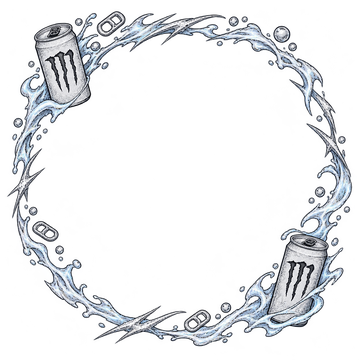
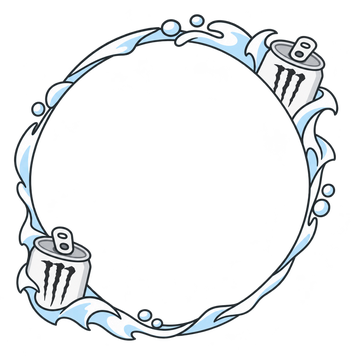
Match Ultra Frost frame to compact illustrated Original Splash style

Changed region(s): [[0.0306, 0.0306, 0.9778, 0.9778]]

diff --git a/holodos/src/site/index.html b/holodos/src/site/index.html
@@ -10,8 +10,8 @@
 <link rel="preconnect" href="https://fonts.gstatic.com" crossorigin>
 <link href="https://fonts.googleapis.com/css2?family=Manrope:wght@400;500;600;700;800&display=swap" rel="stylesheet">
 <link rel="preload" href="/assets/hero-main-2026.webp?v=20261114hq2" as="image" type="image/webp" fetchpriority="high">
-<link rel="stylesheet" href="/assets/site.css?v=20261114-frames53">
-<script src="/assets/site.js?v=20261114-frames53" defer></script>
+<link rel="stylesheet" href="/assets/site.css?v=20261115-frames55">
+<script src="/assets/site.js?v=20261115-frames55" defer></script>
 </head>
 <body>
 <div class="shell">
@@ -100,7 +100,7 @@
 <section class="view" id="view-cases" data-view="/cases">
  <div class="cases-topline"><div class="page-header cases-heading"><p class="eyebrow">КОЛЛЕКЦИЯ / WAR1OUSS</p><h1>Холод с характером<span class="period">.</span></h1><p>Твоя коллекция кейсов и наград.</p></div>
  <aside class="cases-balances" aria-label="Твои балансы"><div class="case-balance case-balance--twitch"><span class="case-balance-label"><svg viewBox="0 0 24 24" aria-hidden="true"><path fill="currentColor" d="M4 2 2 6v15h5v3l4-3h4l7-7V2H4zm16 11-4 4h-5l-3 3v-3H4V4h16v9zM14 7h2v6h-2V7zm-5 0h2v6H9V7z"/></svg>Баллы канала</span><strong id="case-channel-balance">—</strong><span class="case-balance-hint">Баланс Twitch пока не подключён</span></div><div class="case-balance"><span class="case-balance-label"><span class="balance-w" aria-hidden="true">W</span>Баллы сайта</span><strong id="case-site-balance" aria-live="polite">—</strong><span class="case-balance-hint" id="case-site-balance-hint">Войди через Twitch</span></div></aside></div><div class="cases-status"><span class="cases-status-dot"></span><span>Коллекция готовится к запуску. Открытия пока недоступны.</span></div>
- <div class="cases-collection"><article class="collection-case collection-case--donation"><div class="case-artwork"><img src="/assets/case-donation.webp?v=54" alt="Белый кейс с гранжем, выемкой в форме банки и эмблемой Monster" width="492" height="338" loading="lazy" decoding="async"><div class="case-hover-rewards" aria-hidden="true"><span class="case-hover-label">МОЖЕТ ВЫПАСТЬ</span><div><span>3000 W</span><span>5000 W</span><span>10000 W</span><span>15000 W</span><span class="reward-glow reward-glow--vp">240 VP</span><span class="reward-glow reward-glow--vp">475 VP</span><span class="reward-glow reward-glow--vp">1000 VP</span><span class="reward-glow reward-glow--popmart">Фигурка POP MART</span></div></div></div><div class="case-content"><p class="case-number case-category">За донат</p><div class="case-title-line"><h2>Донатный</h2></div><p class="case-description">Гарантированные 2 000 W дополнительно к случайной награде: W-монетам, коду VP или фигурке POP MART.</p><div class="case-cost">400 ₽</div><details class="case-rewards"><summary>Шансы <span aria-hidden="true">+</span></summary><div class="case-reward-list"><div><span>3000 W</span><strong>14,98%</strong></div><div><span>5000 W</span><strong>35%</strong></div><div><span>10000 W</span><strong>15%</strong></div><div><span>15000 W</span><strong>5%</strong></div><div><span class="reward-glow reward-glow--vp">240 VP</span><strong>25%</strong></div><div><span class="reward-glow reward-glow--vp">475 VP</span><strong>4%</strong></div><div><span class="reward-glow reward-glow--vp">1000 VP</span><strong>1%</strong></div><div><span class="reward-glow reward-glow--popmart">Фигурка POP MART</span><strong>0,02%</strong></div></div><p class="case-odds-note">Шанс каждого открытия независим. Редкая награда не гарантирована.</p></details><button class="case-open-button" type="button" disabled>Скоро открытие <span aria-hidden="true">↗</span></button></div></article><article class="collection-case collection-case--twitch"><div class="case-artwork"><img src="/assets/case-twitch.webp?v=43" alt="Баллы Twitch: металлический кейс War1ouss с инеем" width="492" height="338" loading="lazy" decoding="async"><div class="case-hover-rewards" aria-hidden="true"><span class="case-hover-label">МОЖЕТ ВЫПАСТЬ</span><div><span>500 W</span><span>1000 W</span><span>2000 W</span><span>5000 W</span><span class="reward-glow reward-glow--vp">240 VP</span></div></div></div><div class="case-content"><p class="case-number case-category">За баллы канала</p><div class="case-title-line"><h2>Баллы Twitch</h2></div><p class="case-description">Предварительный состав наград за 10 000 баллов канала. Открытия пока недоступны.</p><div class="case-cost">10 000 баллов</div><details class="case-rewards"><summary>Шансы <span aria-hidden="true">+</span></summary><div class="case-reward-list"><div><span>500 W</span><strong>35%</strong></div><div><span>1000 W</span><strong>30%</strong></div><div><span>2000 W</span><strong>20%</strong></div><div><span>5000 W</span><strong>14%</strong></div><div><span class="reward-glow reward-glow--vp">240 VP</span><strong>1%</strong></div></div><p class="case-odds-note">Предварительный просмотр. Открытия за баллы канала отключены.</p></details><button class="case-open-button" type="button" disabled>Скоро открытие <span aria-hidden="true">↗</span></button></div></article><article class="collection-case collection-case--chat"><div class="case-artwork"><img src="/assets/case-chat.webp?v=43" alt="За сообщения: металлический кейс War1ouss с инеем" width="492" height="338" loading="lazy" decoding="async"><div class="case-hover-rewards" aria-hidden="true"><span class="case-hover-label">МОЖЕТ ВЫПАСТЬ</span><div><span>100 W</span><span>250 W</span><span>1000 W</span><span>3000 W</span><span>8000 W</span><span class="reward-glow reward-glow--vp">240 VP</span><span class="reward-glow reward-glow--vip">VIP на месяц</span></div></div></div><div class="case-content"><p class="case-number case-category">За активность</p><div class="case-title-line"><h2>За сообщения</h2></div><p class="case-description">Общайся в чате. Прогресс копится между стримами. Если VIP уже активен, вместо VIP-награды — 3 000 W.</p><div class="case-cost">1 500 сообщений</div><details class="case-rewards"><summary>Шансы <span aria-hidden="true">+</span></summary><div class="case-reward-list"><div><span>100 W</span><strong>33,5%</strong></div><div><span>250 W</span><strong>35%</strong></div><div><span>1000 W</span><strong>20%</strong></div><div><span>3000 W</span><strong>7%</strong></div><div><span>8000 W</span><strong>2,5%</strong></div><div><span class="reward-glow reward-glow--vp">240 VP</span><strong>0,5%</strong></div><div><span class="reward-glow reward-glow--vip">VIP на месяц</span><strong>1,5%</strong></div></div><p class="case-odds-note">Шанс каждого открытия независим. Редкая награда не гарантирована.</p></details><button class="case-open-button" type="button" disabled>Скоро открытие <span aria-hidden="true">↗</span></button></div></article><article class="collection-case collection-case--vip"><div class="case-artwork"><img src="/assets/case-vip.webp?v=43" alt="VIP: металлический кейс War1ouss с инеем" width="492" height="338" loading="lazy" decoding="async"><div class="case-hover-rewards" aria-hidden="true"><span class="case-hover-label">МОЖЕТ ВЫПАСТЬ</span><div><span>500 W</span><span>2000 W</span><span>5000 W</span><span>10000 W</span><span class="reward-glow reward-glow--vp">240 VP</span></div></div></div><div class="case-content"><p class="case-number case-category">Раз в неделю</p><div class="case-title-line"><h2>VIP</h2></div><p class="case-description">Особый кейс для обладателей VIP-значка Twitch. Без пустого результата.</p><div class="case-cost">Для VIP-еров</div><details class="case-rewards"><summary>Шансы <span aria-hidden="true">+</span></summary><div class="case-reward-list"><div><span>500 W</span><strong>35%</strong></div><div><span>2000 W</span><strong>30%</strong></div><div><span>5000 W</span><strong>20%</strong></div><div><span>10000 W</span><strong>12%</strong></div><div><span class="reward-glow reward-glow--vp">240 VP</span><strong>3%</strong></div></div><p class="case-odds-note">Шанс каждого открытия независим. Редкая награда не гарантирована.</p></details><button class="case-open-button" type="button" disabled>Скоро открытие <span aria-hidden="true">↗</span></button></div></article><article class="collection-case collection-case--coins"><div class="case-artwork"><img src="/assets/case-coins.webp?v=43" alt="За W-монеты: металлический кейс War1ouss с инеем" width="492" height="338" loading="lazy" decoding="async"><div class="case-hover-rewards" aria-hidden="true"><span class="case-hover-label">НАГРАДЫ</span><p>Содержимое скоро появится</p></div></div><div class="case-content"><p class="case-number case-category">Скоро</p><div class="case-title-line"><h2>За W-монеты</h2></div><p class="case-description">Новый способ использовать заработанные W. Стоимость и награды ещё настраиваются.</p><div class="case-cost">За W-монеты</div><div class="case-pending">Содержимое скоро появится</div><button class="case-open-button" type="button" disabled>Скоро открытие <span aria-hidden="true">↗</span></button></div></article><article class="collection-case collection-case--subscriber"><div class="case-artwork"><img src="/assets/case-subscriber.webp?v=44" alt="Косметический кейс за подписку" width="492" height="338" loading="lazy"><div class="case-hover-rewards" aria-hidden="true"><span class="case-hover-label">КОСМЕТИКА</span><div><span class="cosmetic-frame">Эффекты рамки</span><span class="cosmetic-title">Титулы</span><span class="cosmetic-name">Оформление ника</span><span class="cosmetic-chess">Скин шахмат · в разработке</span><span class="cosmetic-can">Банка для дуэлей</span><span class="cosmetic-theme">Цвет сайта</span></div></div></div><div class="case-content"><p class="case-category">За подписку Twitch</p><h2>За подписку</h2><p class="case-description">Каждый месяц подписки: уровень 1 даёт 1 кейс, уровень 2 даёт 2, уровень 3 даёт 3.</p><div class="case-cost">1 / 2 / 3 кейса в месяц</div><details class="case-rewards"><summary>Шансы <span aria-hidden="true">+</span></summary><div class="case-reward-list"><div><span class="cosmetic-frame">Эффекты рамки</span><strong>40%</strong></div><div><span class="cosmetic-title">Титулы</span><strong>25%</strong></div><div><span class="cosmetic-name">Оформление ника</span><strong>24%</strong></div><div><span class="cosmetic-can">Банка для дуэлей</span><strong>10%</strong></div><div><span class="cosmetic-theme">Цвет сайта</span><strong>1%</strong></div></div><p class="case-odds-note">Пять банок равновероятны внутри награды, по 2% каждая. Скин шахмат в разработке и пока не выпадает. Шанс каждого открытия независим.</p></details><button class="case-open-button" disabled>Проверка подписок подключается</button></div></article></div><section class="panel monster-frame-gallery"><div class="panel-header"><h2>Рамки Monster</h2><span class="muted">Примеры косметики</span></div><p class="muted">Банки, язычки и брызги вокруг твоего аватара. Три рисованных варианта с мягким переливом.</p><div class="monster-frame-grid"><article class="frame-preview-card"><div class="frame-preview"><span class="frame-preview-center">W</span><picture><source media="(prefers-reduced-motion: reduce)" srcset="/assets/frame-ultra.png?v=53"><img src="/assets/frame-ultra.gif?v=53" alt="Рамка Ultra Frost с банками Monster и брызгами" width="160" height="160" loading="lazy" draggable="false"></picture></div><h3>Ultra Frost</h3></article><article class="frame-preview-card"><div class="frame-preview"><span class="frame-preview-center">W</span><picture><source media="(prefers-reduced-motion: reduce)" srcset="/assets/frame-original.png?v=53"><img src="/assets/frame-original.gif?v=53" alt="Рамка Original Splash с банками Monster и брызгами" width="160" height="160" loading="lazy" draggable="false"></picture></div><h3>Original Splash</h3></article><article class="frame-preview-card"><div class="frame-preview"><span class="frame-preview-center">W</span><picture><source media="(prefers-reduced-motion: reduce)" srcset="/assets/frame-mango.png?v=53"><img src="/assets/frame-mango.gif?v=53" alt="Рамка Mango Loco с банками Monster и брызгами" width="160" height="160" loading="lazy" draggable="false"></picture></div><h3>Mango Loco</h3></article></div></section><div class="cases-footnote"><span>W / WAR1OUSS</span><p>Условия и награды показаны для предварительного просмотра. Подключение выдачи кейсов — следующий этап.</p></div></section>
+ <div class="cases-collection"><article class="collection-case collection-case--donation"><div class="case-artwork"><img src="/assets/case-donation.webp?v=54" alt="Белый кейс с гранжем, выемкой в форме банки и эмблемой Monster" width="492" height="338" loading="lazy" decoding="async"><div class="case-hover-rewards" aria-hidden="true"><span class="case-hover-label">МОЖЕТ ВЫПАСТЬ</span><div><span>3000 W</span><span>5000 W</span><span>10000 W</span><span>15000 W</span><span class="reward-glow reward-glow--vp">240 VP</span><span class="reward-glow reward-glow--vp">475 VP</span><span class="reward-glow reward-glow--vp">1000 VP</span><span class="reward-glow reward-glow--popmart">Фигурка POP MART</span></div></div></div><div class="case-content"><p class="case-number case-category">За донат</p><div class="case-title-line"><h2>Донатный</h2></div><p class="case-description">Гарантированные 2 000 W дополнительно к случайной награде: W-монетам, коду VP или фигурке POP MART.</p><div class="case-cost">400 ₽</div><details class="case-rewards"><summary>Шансы <span aria-hidden="true">+</span></summary><div class="case-reward-list"><div><span>3000 W</span><strong>14,98%</strong></div><div><span>5000 W</span><strong>35%</strong></div><div><span>10000 W</span><strong>15%</strong></div><div><span>15000 W</span><strong>5%</strong></div><div><span class="reward-glow reward-glow--vp">240 VP</span><strong>25%</strong></div><div><span class="reward-glow reward-glow--vp">475 VP</span><strong>4%</strong></div><div><span class="reward-glow reward-glow--vp">1000 VP</span><strong>1%</strong></div><div><span class="reward-glow reward-glow--popmart">Фигурка POP MART</span><strong>0,02%</strong></div></div><p class="case-odds-note">Шанс каждого открытия независим. Редкая награда не гарантирована.</p></details><button class="case-open-button" type="button" disabled>Скоро открытие <span aria-hidden="true">↗</span></button></div></article><article class="collection-case collection-case--twitch"><div class="case-artwork"><img src="/assets/case-twitch.webp?v=43" alt="Баллы Twitch: металлический кейс War1ouss с инеем" width="492" height="338" loading="lazy" decoding="async"><div class="case-hover-rewards" aria-hidden="true"><span class="case-hover-label">МОЖЕТ ВЫПАСТЬ</span><div><span>500 W</span><span>1000 W</span><span>2000 W</span><span>5000 W</span><span class="reward-glow reward-glow--vp">240 VP</span></div></div></div><div class="case-content"><p class="case-number case-category">За баллы канала</p><div class="case-title-line"><h2>Баллы Twitch</h2></div><p class="case-description">Предварительный состав наград за 10 000 баллов канала. Открытия пока недоступны.</p><div class="case-cost">10 000 баллов</div><details class="case-rewards"><summary>Шансы <span aria-hidden="true">+</span></summary><div class="case-reward-list"><div><span>500 W</span><strong>35%</strong></div><div><span>1000 W</span><strong>30%</strong></div><div><span>2000 W</span><strong>20%</strong></div><div><span>5000 W</span><strong>14%</strong></div><div><span class="reward-glow reward-glow--vp">240 VP</span><strong>1%</strong></div></div><p class="case-odds-note">Предварительный просмотр. Открытия за баллы канала отключены.</p></details><button class="case-open-button" type="button" disabled>Скоро открытие <span aria-hidden="true">↗</span></button></div></article><article class="collection-case collection-case--chat"><div class="case-artwork"><img src="/assets/case-chat.webp?v=43" alt="За сообщения: металлический кейс War1ouss с инеем" width="492" height="338" loading="lazy" decoding="async"><div class="case-hover-rewards" aria-hidden="true"><span class="case-hover-label">МОЖЕТ ВЫПАСТЬ</span><div><span>100 W</span><span>250 W</span><span>1000 W</span><span>3000 W</span><span>8000 W</span><span class="reward-glow reward-glow--vp">240 VP</span><span class="reward-glow reward-glow--vip">VIP на месяц</span></div></div></div><div class="case-content"><p class="case-number case-category">За активность</p><div class="case-title-line"><h2>За сообщения</h2></div><p class="case-description">Общайся в чате. Прогресс копится между стримами. Если VIP уже активен, вместо VIP-награды — 3 000 W.</p><div class="case-cost">1 500 сообщений</div><details class="case-rewards"><summary>Шансы <span aria-hidden="true">+</span></summary><div class="case-reward-list"><div><span>100 W</span><strong>33,5%</strong></div><div><span>250 W</span><strong>35%</strong></div><div><span>1000 W</span><strong>20%</strong></div><div><span>3000 W</span><strong>7%</strong></div><div><span>8000 W</span><strong>2,5%</strong></div><div><span class="reward-glow reward-glow--vp">240 VP</span><strong>0,5%</strong></div><div><span class="reward-glow reward-glow--vip">VIP на месяц</span><strong>1,5%</strong></div></div><p class="case-odds-note">Шанс каждого открытия независим. Редкая награда не гарантирована.</p></details><button class="case-open-button" type="button" disabled>Скоро открытие <span aria-hidden="true">↗</span></button></div></article><article class="collection-case collection-case--vip"><div class="case-artwork"><img src="/assets/case-vip.webp?v=43" alt="VIP: металлический кейс War1ouss с инеем" width="492" height="338" loading="lazy" decoding="async"><div class="case-hover-rewards" aria-hidden="true"><span class="case-hover-label">МОЖЕТ ВЫПАСТЬ</span><div><span>500 W</span><span>2000 W</span><span>5000 W</span><span>10000 W</span><span class="reward-glow reward-glow--vp">240 VP</span></div></div></div><div class="case-content"><p class="case-number case-category">Раз в неделю</p><div class="case-title-line"><h2>VIP</h2></div><p class="case-description">Особый кейс для обладателей VIP-значка Twitch. Без пустого результата.</p><div class="case-cost">Для VIP-еров</div><details class="case-rewards"><summary>Шансы <span aria-hidden="true">+</span></summary><div class="case-reward-list"><div><span>500 W</span><strong>35%</strong></div><div><span>2000 W</span><strong>30%</strong></div><div><span>5000 W</span><strong>20%</strong></div><div><span>10000 W</span><strong>12%</strong></div><div><span class="reward-glow reward-glow--vp">240 VP</span><strong>3%</strong></div></div><p class="case-odds-note">Шанс каждого открытия независим. Редкая награда не гарантирована.</p></details><button class="case-open-button" type="button" disabled>Скоро открытие <span aria-hidden="true">↗</span></button></div></article><article class="collection-case collection-case--coins"><div class="case-artwork"><img src="/assets/case-coins.webp?v=43" alt="За W-монеты: металлический кейс War1ouss с инеем" width="492" height="338" loading="lazy" decoding="async"><div class="case-hover-rewards" aria-hidden="true"><span class="case-hover-label">НАГРАДЫ</span><p>Содержимое скоро появится</p></div></div><div class="case-content"><p class="case-number case-category">Скоро</p><div class="case-title-line"><h2>За W-монеты</h2></div><p class="case-description">Новый способ использовать заработанные W. Стоимость и награды ещё настраиваются.</p><div class="case-cost">За W-монеты</div><div class="case-pending">Содержимое скоро появится</div><button class="case-open-button" type="button" disabled>Скоро открытие <span aria-hidden="true">↗</span></button></div></article><article class="collection-case collection-case--subscriber"><div class="case-artwork"><img src="/assets/case-subscriber.webp?v=44" alt="Косметический кейс за подписку" width="492" height="338" loading="lazy"><div class="case-hover-rewards" aria-hidden="true"><span class="case-hover-label">КОСМЕТИКА</span><div><span class="cosmetic-frame">Эффекты рамки</span><span class="cosmetic-title">Титулы</span><span class="cosmetic-name">Оформление ника</span><span class="cosmetic-chess">Скин шахмат · в разработке</span><span class="cosmetic-can">Банка для дуэлей</span><span class="cosmetic-theme">Цвет сайта</span></div></div></div><div class="case-content"><p class="case-category">За подписку Twitch</p><h2>За подписку</h2><p class="case-description">Каждый месяц подписки: уровень 1 даёт 1 кейс, уровень 2 даёт 2, уровень 3 даёт 3.</p><div class="case-cost">1 / 2 / 3 кейса в месяц</div><details class="case-rewards"><summary>Шансы <span aria-hidden="true">+</span></summary><div class="case-reward-list"><div><span class="cosmetic-frame">Эффекты рамки</span><strong>40%</strong></div><div><span class="cosmetic-title">Титулы</span><strong>25%</strong></div><div><span class="cosmetic-name">Оформление ника</span><strong>24%</strong></div><div><span class="cosmetic-can">Банка для дуэлей</span><strong>10%</strong></div><div><span class="cosmetic-theme">Цвет сайта</span><strong>1%</strong></div></div><p class="case-odds-note">Пять банок равновероятны внутри награды, по 2% каждая. Скин шахмат в разработке и пока не выпадает. Шанс каждого открытия независим.</p></details><button class="case-open-button" disabled>Проверка подписок подключается</button></div></article></div><section class="panel monster-frame-gallery"><div class="panel-header"><h2>Рамки Monster</h2><span class="muted">Примеры косметики</span></div><p class="muted">Банки, язычки и брызги вокруг твоего аватара. Три рисованных варианта с мягким переливом.</p><div class="monster-frame-grid"><article class="frame-preview-card"><div class="frame-preview"><span class="frame-preview-center">W</span><picture><source media="(prefers-reduced-motion: reduce)" srcset="/assets/frame-ultra.png?v=55"><img src="/assets/frame-ultra.gif?v=55" alt="Рамка Ultra Frost с банками Monster и брызгами" width="160" height="160" loading="lazy" draggable="false"></picture></div><h3>Ultra Frost</h3></article><article class="frame-preview-card"><div class="frame-preview"><span class="frame-preview-center">W</span><picture><source media="(prefers-reduced-motion: reduce)" srcset="/assets/frame-original.png?v=53"><img src="/assets/frame-original.gif?v=53" alt="Рамка Original Splash с банками Monster и брызгами" width="160" height="160" loading="lazy" draggable="false"></picture></div><h3>Original Splash</h3></article><article class="frame-preview-card"><div class="frame-preview"><span class="frame-preview-center">W</span><picture><source media="(prefers-reduced-motion: reduce)" srcset="/assets/frame-mango.png?v=53"><img src="/assets/frame-mango.gif?v=53" alt="Рамка Mango Loco с банками Monster и брызгами" width="160" height="160" loading="lazy" draggable="false"></picture></div><h3>Mango Loco</h3></article></div></section><div class="cases-footnote"><span>W / WAR1OUSS</span><p>Условия и награды показаны для предварительного просмотра. Подключение выдачи кейсов — следующий этап.</p></div></section>
 
 <section class="view" id="view-duels" data-view="/duels">
   <div class="page-header"><p class="eyebrow">PVP / ДУЭЛИ</p><h1>Брось вызов<span class="period">.</span></h1><p>Дуэли на W-монеты с теми же правилами, что и в чате. Перерыв после завершения — 2 минуты 30 секунд.</p></div>

diff --git a/holodos/src/site/site.css b/holodos/src/site/site.css
@@ -1513,4 +1513,4 @@ body:not(.inner-page) .topbar{border-bottom:0;box-shadow:none}
 @keyframes recentWinsColdRim{0%,28%,100%{opacity:0}12%,18%{opacity:.7}23%{opacity:.2}}
 @media(prefers-reduced-motion:reduce){#view-home .recent-wins-panel,#view-home .recent-wins-panel::after{animation:none}#view-home .recent-wins-panel::after{display:none}}
 
-.frame-preview-card:first-child .frame-preview-center{inset:14px}
+
